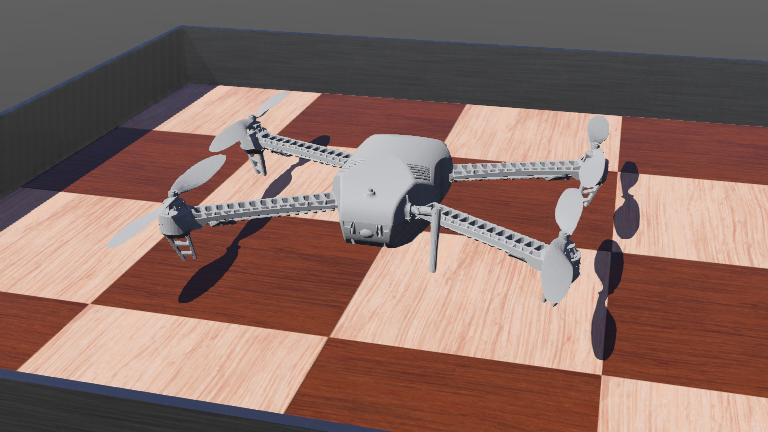
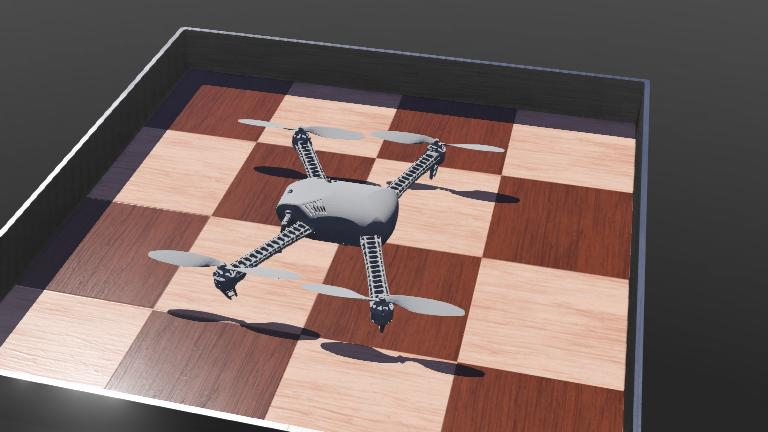
changed the structure so i have propellers now

diff --git a/controllers/drone/dataLoader.cpp b/controllers/drone/dataLoader.cpp
@@ -1,7 +1,10 @@
 #include <iostream>
 #include <webots/Robot.hpp>
 #include <webots/Supervisor.hpp>
+#include <webots/Motor.hpp>
 #include "../../config/DroneConfig.hpp"
+#include <cmath>
+
 
 void loadConfigData(webots::Supervisor* droneSuper)
 {
@@ -28,5 +31,16 @@ void loadConfigData(webots::Supervisor* droneSuper)
    inertiaField->setMFVec3f(0, inertiaFieldValues);
    std::cout << "Loaded MOI" << std::endl;
    
+   
+   
+
+   // for(int i = 0; i < DroneConfig::motorCount; i++)
+   // {
+     // webots::Motor *motor = droneSuper->getMotor("motor" + std::to_string(i));
+     // motor->setPosition(INFINITY);
+     // motor->setVelocity(0.0);
+   // }
+   
+   //motor0->setPosition(1000.0);
 
 }

diff --git a/config/DroneConfig.hpp b/config/DroneConfig.hpp
@@ -32,21 +32,18 @@ namespace DroneConfig
 	constexpr double motorDamping = 0.004;
 	constexpr double maxMotorRPM = 838.0;
 
+	constexpr int motorDirections[4] = {-1, -1, 1, 1};
 	// motor 0
-	constexpr int motor0_direction = -1;
 	constexpr Vector3 motor0Pos{0.1293, -0.2188, 0.0262};
 
 	// motor 1
-	constexpr int motor1_direction = -1;
 	constexpr Vector3 motor1Pos{-0.1339, 0.2066, 0.0262};
 
 		
 	// motor 2
-	constexpr int motor2_direction = 1;
 	constexpr Vector3 motor2Pos{0.1257, 0.2224, 0.0262};
 
 	// motor 3
-	constexpr int motor3_direction = 1;
 	constexpr Vector3 motor3Pos{-0.1378, -0.2027, 0.0262};
 
 
